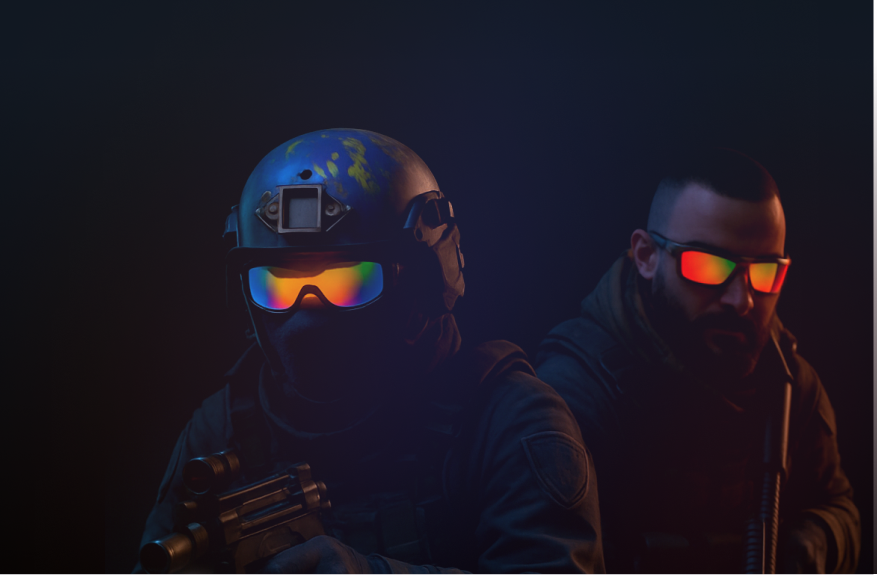
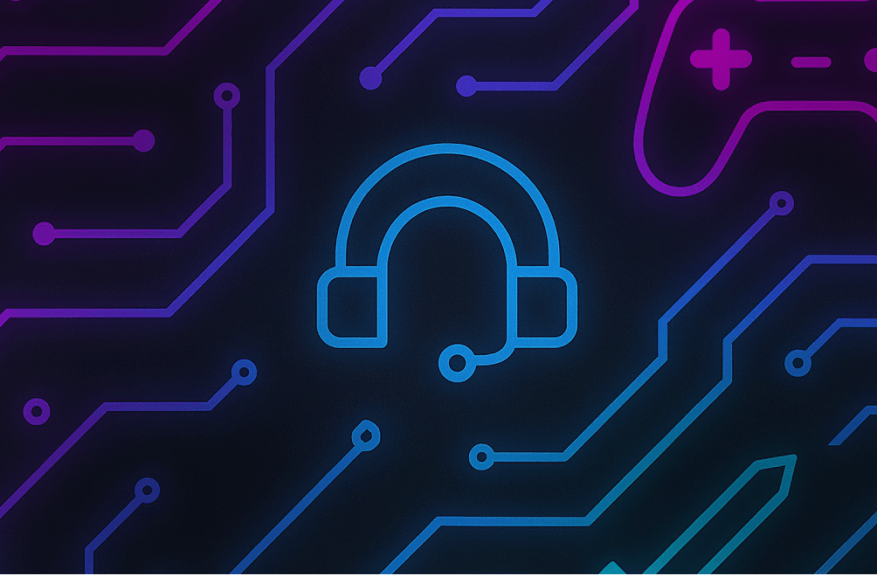
fixes

diff --git a/src/components/Toast/ToastsRoot.tsx b/src/components/Toast/ToastsRoot.tsx
@@ -1,11 +1,10 @@
 import { CheckmarkCircle } from '../Icons/Checkmark';
 import { Close } from '../Icons/Close';
-import { useDeviceStore } from '@/states/device/state';
 import { Toaster } from 'sonner';
 import styles from './ToastsRoot.module.scss';
 
 const options = {
-    duration: 60_000,
+    duration: 3_000,
     unstyled: true,
     classNames: {
         toast: styles.toast,
@@ -18,9 +17,19 @@ const options = {
     },
 };
 
+const offset = {
+    top: 'var(--safe-area-top)',
+    right: 'var(--safe-area-left)',
+    left: 'var(--safe-area-right)',
+};
+
+const mobileOffset = {
+    top: 'var(--safe-area-top)',
+    right: 'var(--safe-area-left)',
+    left: 'var(--safe-area-right)',
+};
+
 export const ToastsRoot = () => {
-    const safeAreaInset = useDeviceStore(state => state.safeAreaInset);
-    const contentSafeAreaInset = useDeviceStore(state => state.contentSafeAreaInset);
     return (
         <Toaster
             position="top-center"
@@ -29,11 +38,8 @@ export const ToastsRoot = () => {
                 success: <CheckmarkCircle />,
                 close: <Close />
             }}
-            offset={{
-                top: `${safeAreaInset.top + contentSafeAreaInset.top}px`,
-                right: `${contentSafeAreaInset.right}px`,
-                left: `${contentSafeAreaInset.left}px`
-            }}
+            offset={offset}
+            mobileOffset={mobileOffset}
             gap={12}
             expand
             visibleToasts={3}

diff --git a/src/localization/translations.tsx b/src/localization/translations.tsx
@@ -103,7 +103,8 @@ export const translations = {
             'The card is applicable to most online merchants and it supports ApplePay and GooglePay.': 'Эта карта работает в большинстве онлайн-магазинов и поддерживает ApplePay и GooglePay',
             'Open Apple Wallet. Tap "+". Follow the instructions to add your card.': 'Откройте Apple Wallet. Нажмите «+». Следуйте инструкциям для добавления карты.',
             'Open Google Pay. Tap "Add card". Follow the on-screen instructions.': 'Откройте Google Pay. Нажмите «Добавить карту». Следуйте инструкциям на экране.',
-            'Supports Apple Pay, Google Pay, WeChat, and Alipay scenarios, and supports super large purchases.': 'Поддерживает Apple Pay, Google Pay, WeChat Pay и Alipay, а также крупные покупки'
+            'Supports Apple Pay, Google Pay, WeChat, and Alipay scenarios, and supports super large purchases.': 'Поддерживает Apple Pay, Google Pay, WeChat Pay и Alipay, а также крупные покупки',
+            'Suitable for payment on Steam, Google Play, App Store, Roblox, Discord, YouTube and other platforms': 'Подходит для оплаты в Steam, Google Play, AppStore, Roblox, Discord, YouTube и на других платформах.'
         }
     }
 } as const;

diff --git a/src/views/Home/HomeView.tsx b/src/views/Home/HomeView.tsx
@@ -68,13 +68,6 @@ export function HomeView() {
     const isActivation = currentBankCard && currentBankCard.status === CardStatus.Activation;
     const isNeedActivation = currentBankCard && currentBankCard.status === CardStatus.NeedActivation;
 
-    // if (!myCards || !Object.keys(myCards).length) {
-    //     return <Navigate
-    //         to='/new-product'
-    //         replace
-    //     />;
-    // }
-
     const skipIntro = useUserStore(state => state.skipIntro);
     const myCardsCount = useCardsStore(state => state.myCardsCount);
     const myCardsFetchStatus = useCardsStore(state => state.myCardsFetchStatus);

diff --git a/src/components/Bank/CardsSlider.tsx b/src/components/Bank/CardsSlider.tsx
@@ -48,6 +48,9 @@ export function CardsSlider({ myCards, currentCardId }: CardsSliderProps) {
     const showPagination = myCardsCount > 1;
     useLayoutEffect(() => {
         computeLayout();
+        if (sliderRef.current?.swiper) {
+            sliderRef.current.swiper.slideTo(activeIndex, 0);
+        }
     }, []);
 
     const setSelectedCardId = useCardsStore(state => state.setSelectedCardId);

diff --git a/src/components/Bank/CardDesign.tsx b/src/components/Bank/CardDesign.tsx
@@ -21,10 +21,10 @@ export const cardDesign = {
         design: eliteVirtual,
     },
     [100005]: {
-        design: platinumVirtual
+        design: gamingVirtual
     },
     [100004]: {
-        design: gamingVirtual
+        design: platinumVirtual
     },
     [100010]: {
         inverse: true,
